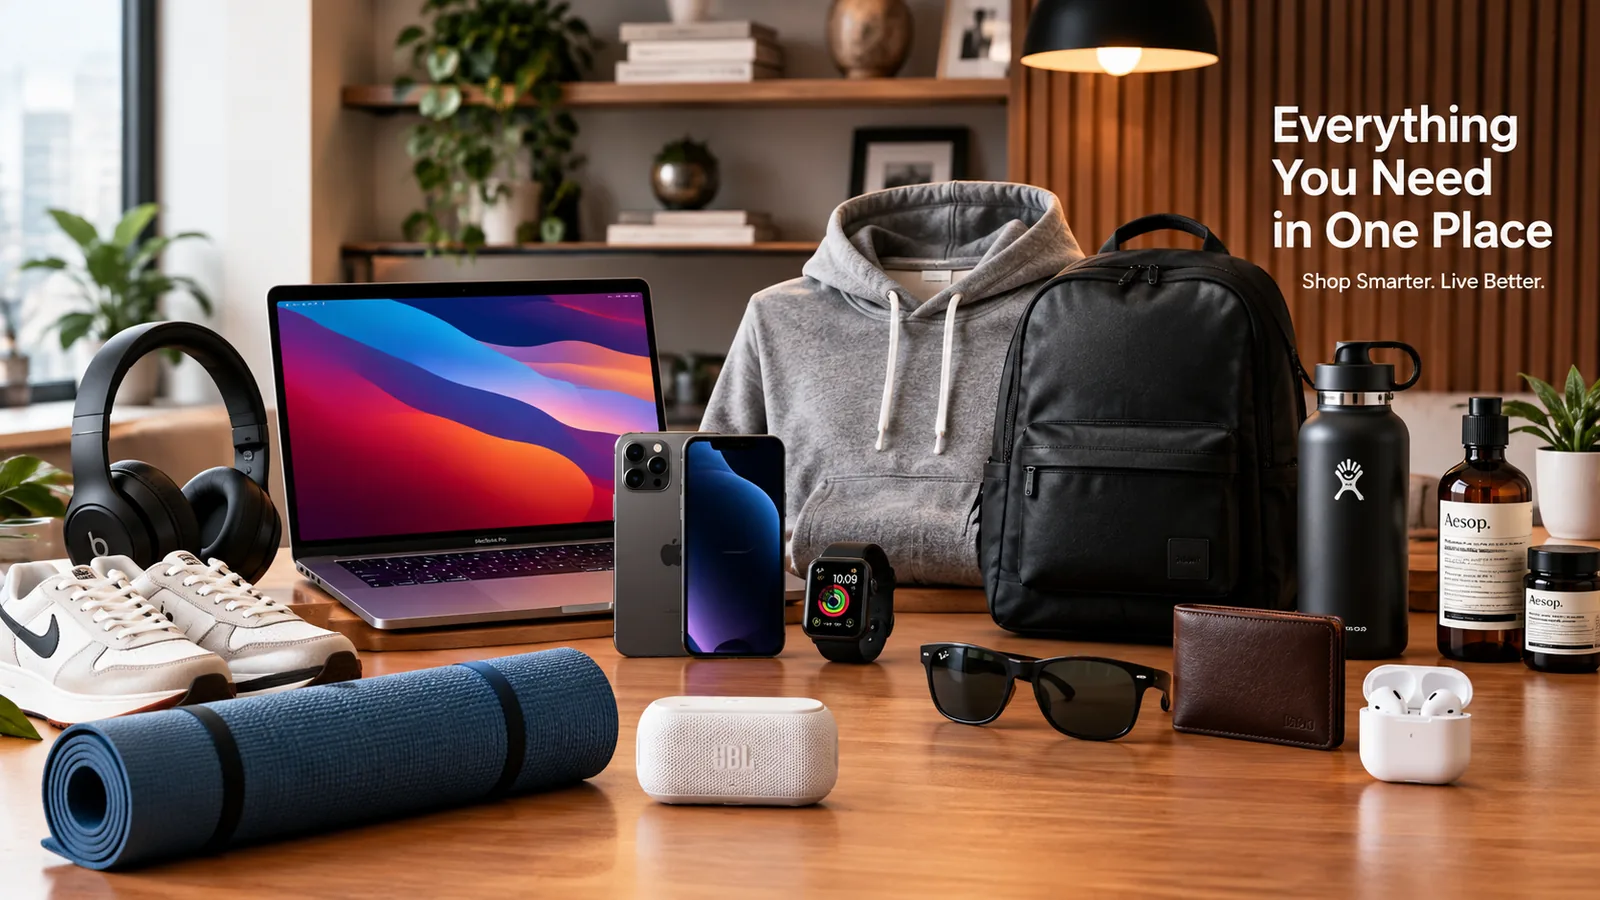
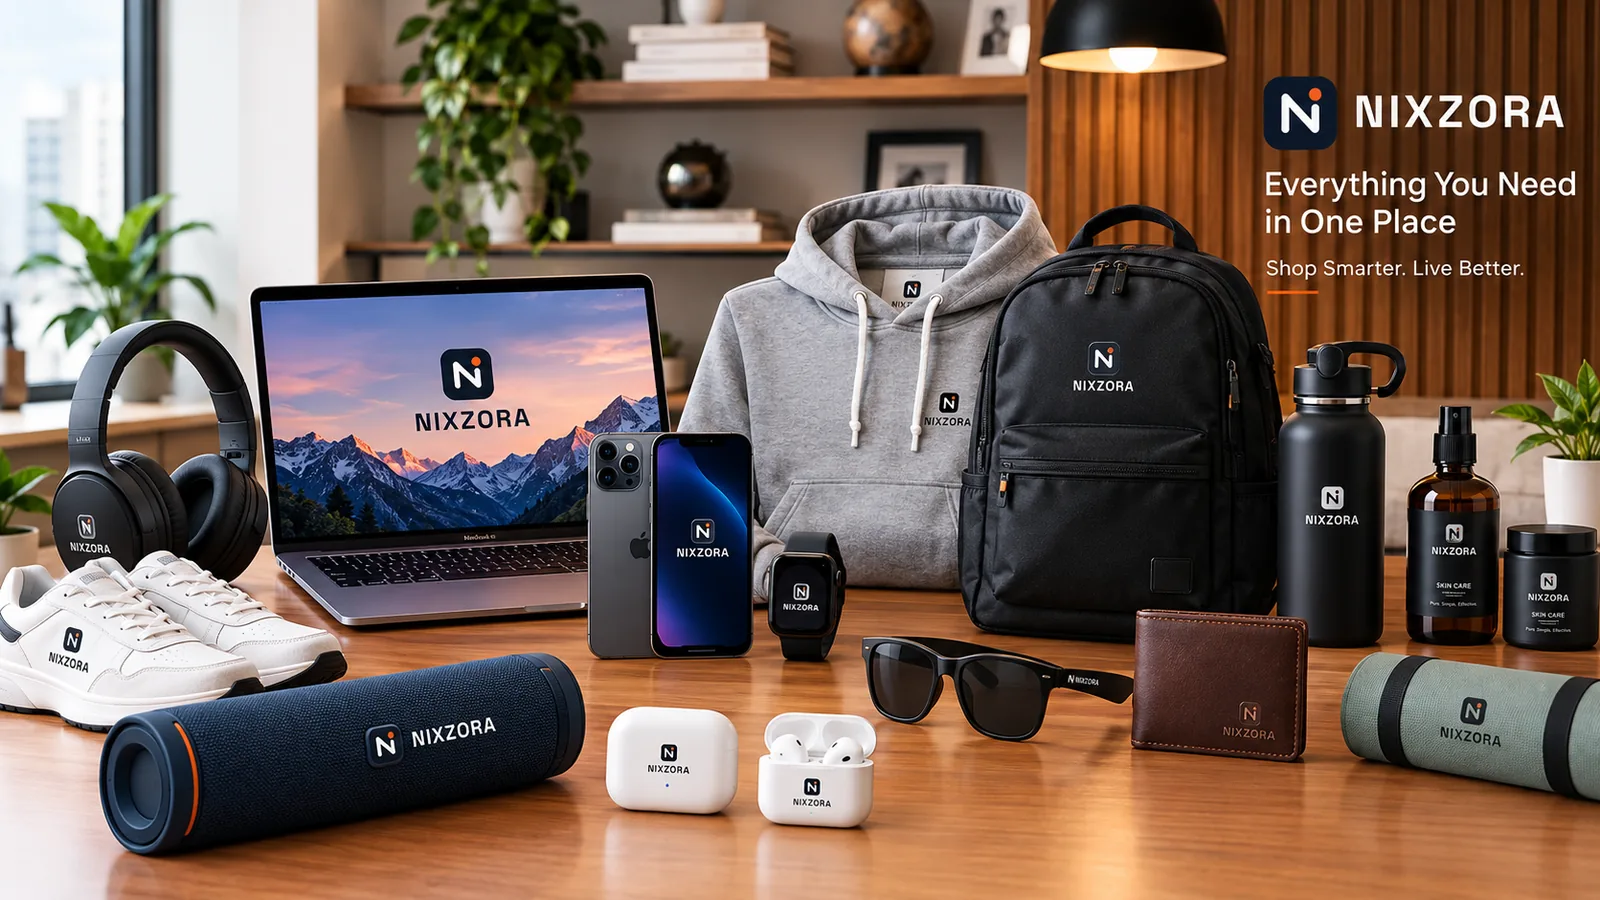
Home hero: NIXZORA-branded picture (web and app)
Claude-Session: https://claude.ai/code/session_01M6cj4uGbuujv5PEz5cAZLe

diff --git a/packages/i18n/src/messages/home.ts b/packages/i18n/src/messages/home.ts
@@ -32,7 +32,7 @@ export const home = defineMessages({
     deliveryTitle: 'Fast, tracked delivery',
     deliveryBody: 'Free over $99 · 30-day returns',
     heroImageAlt:
-      'Headphones, sneakers, a laptop, a phone, a smartwatch, a hoodie, a backpack, a water bottle, skincare, sunglasses, a wallet, earbuds, a speaker and a yoga mat on a wooden table, with the words “Everything you need in one place. Shop smarter. Live better.”',
+      'Headphones, sneakers, a laptop, a phone, a smartwatch, a hoodie, a backpack, a water bottle, skincare, sunglasses, a wallet, earbuds, a speaker and a yoga mat on a wooden table, each with the NIXZORA logo, and the words “Everything you need in one place. Shop smarter. Live better.”',
   },
   fr: {
     eyebrow: 'Le commerce porté par l’IA',
@@ -66,7 +66,7 @@ export const home = defineMessages({
     deliveryTitle: 'Livraison rapide et suivie',
     deliveryBody: 'Offerte dès 99 $ · retours sous 30 jours',
     heroImageAlt:
-      'Un casque, des baskets, un ordinateur portable, un téléphone, une montre connectée, un sweat, un sac à dos, une gourde, des soins, des lunettes de soleil, un portefeuille, des écouteurs, une enceinte et un tapis de yoga sur une table en bois, avec les mots « Everything you need in one place. Shop smarter. Live better. »',
+      'Un casque, des baskets, un ordinateur portable, un téléphone, une montre connectée, un sweat, un sac à dos, une gourde, des soins, des lunettes de soleil, un portefeuille, des écouteurs, une enceinte et un tapis de yoga sur une table en bois, chacun avec le logo NIXZORA, et les mots « Everything you need in one place. Shop smarter. Live better. »',
   },
   es: {
     eyebrow: 'Comercio impulsado por IA',
@@ -100,6 +100,6 @@ export const home = defineMessages({
     deliveryTitle: 'Envío rápido y con rastreo',
     deliveryBody: 'Gratis desde $99 · devoluciones en 30 días',
     heroImageAlt:
-      'Audífonos, tenis, una laptop, un teléfono, un reloj inteligente, una sudadera, una mochila, una botella, productos de cuidado de la piel, lentes de sol, una cartera, auriculares, una bocina y un tapete de yoga sobre una mesa de madera, con las palabras «Everything you need in one place. Shop smarter. Live better.»',
+      'Audífonos, tenis, una laptop, un teléfono, un reloj inteligente, una sudadera, una mochila, una botella, productos de cuidado de la piel, lentes de sol, una cartera, auriculares, una bocina y un tapete de yoga sobre una mesa de madera, cada uno con el logo de NIXZORA, y las palabras «Everything you need in one place. Shop smarter. Live better.»',
   },
 });
